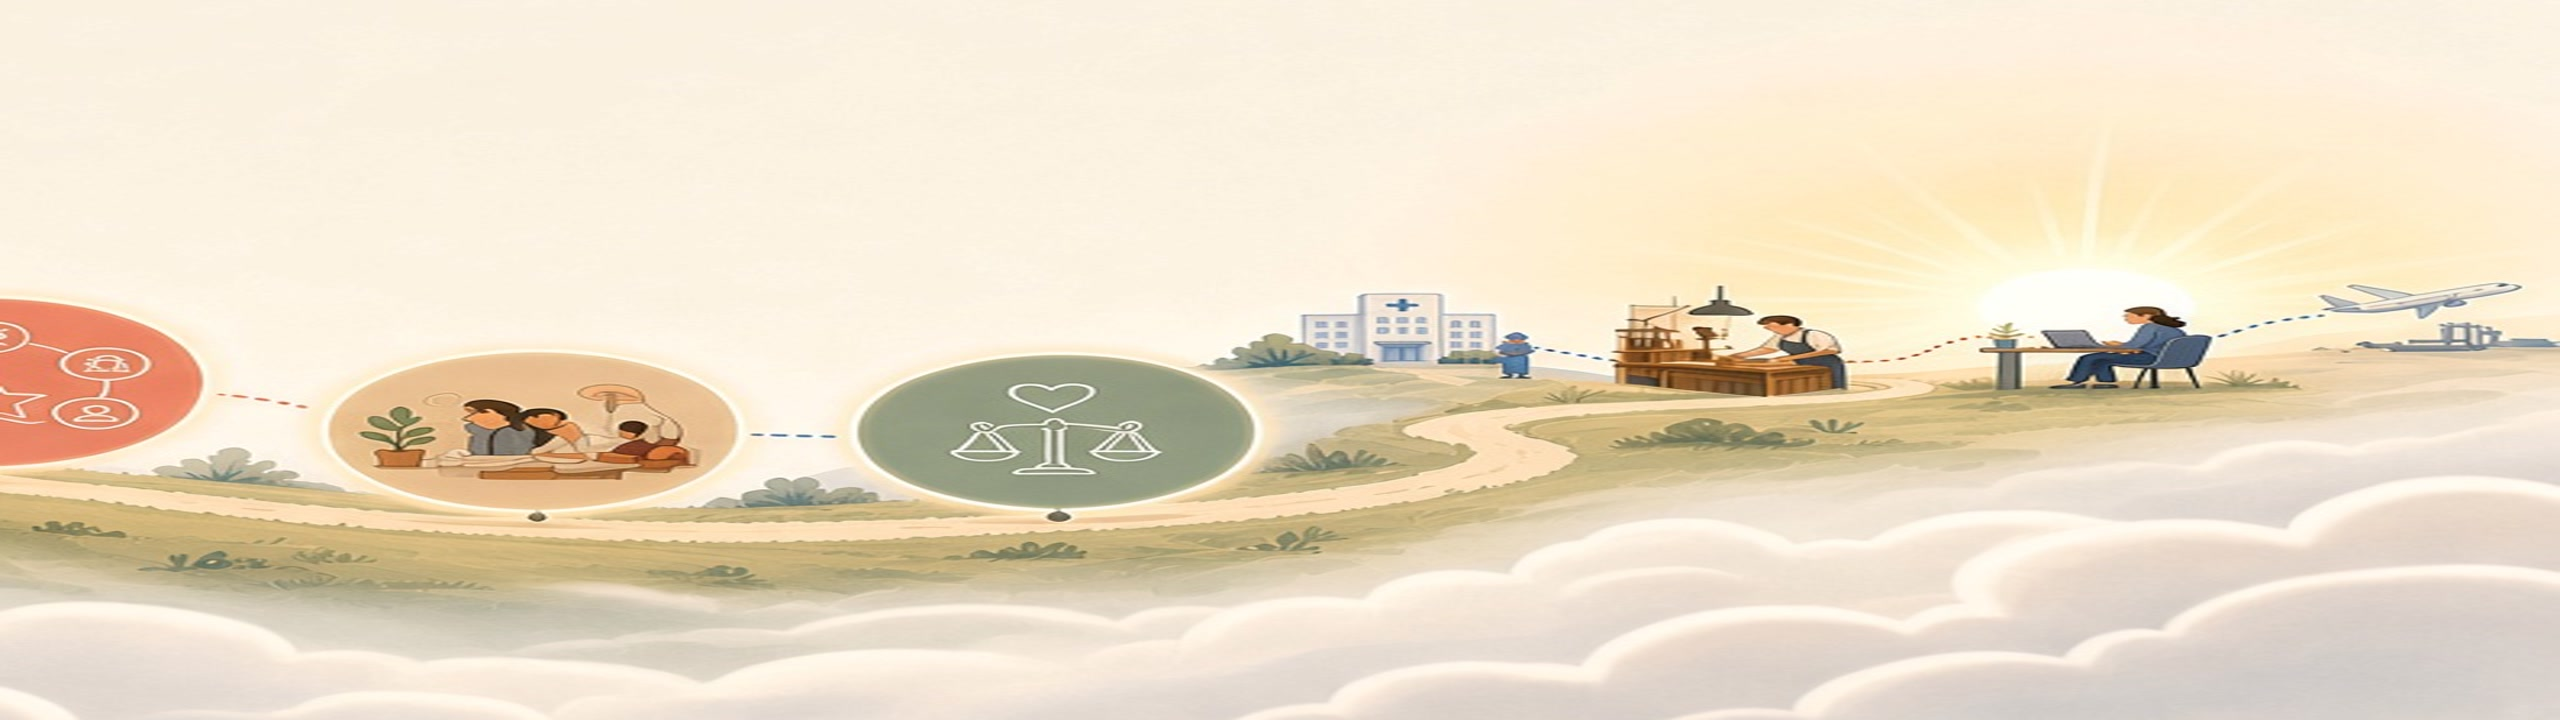
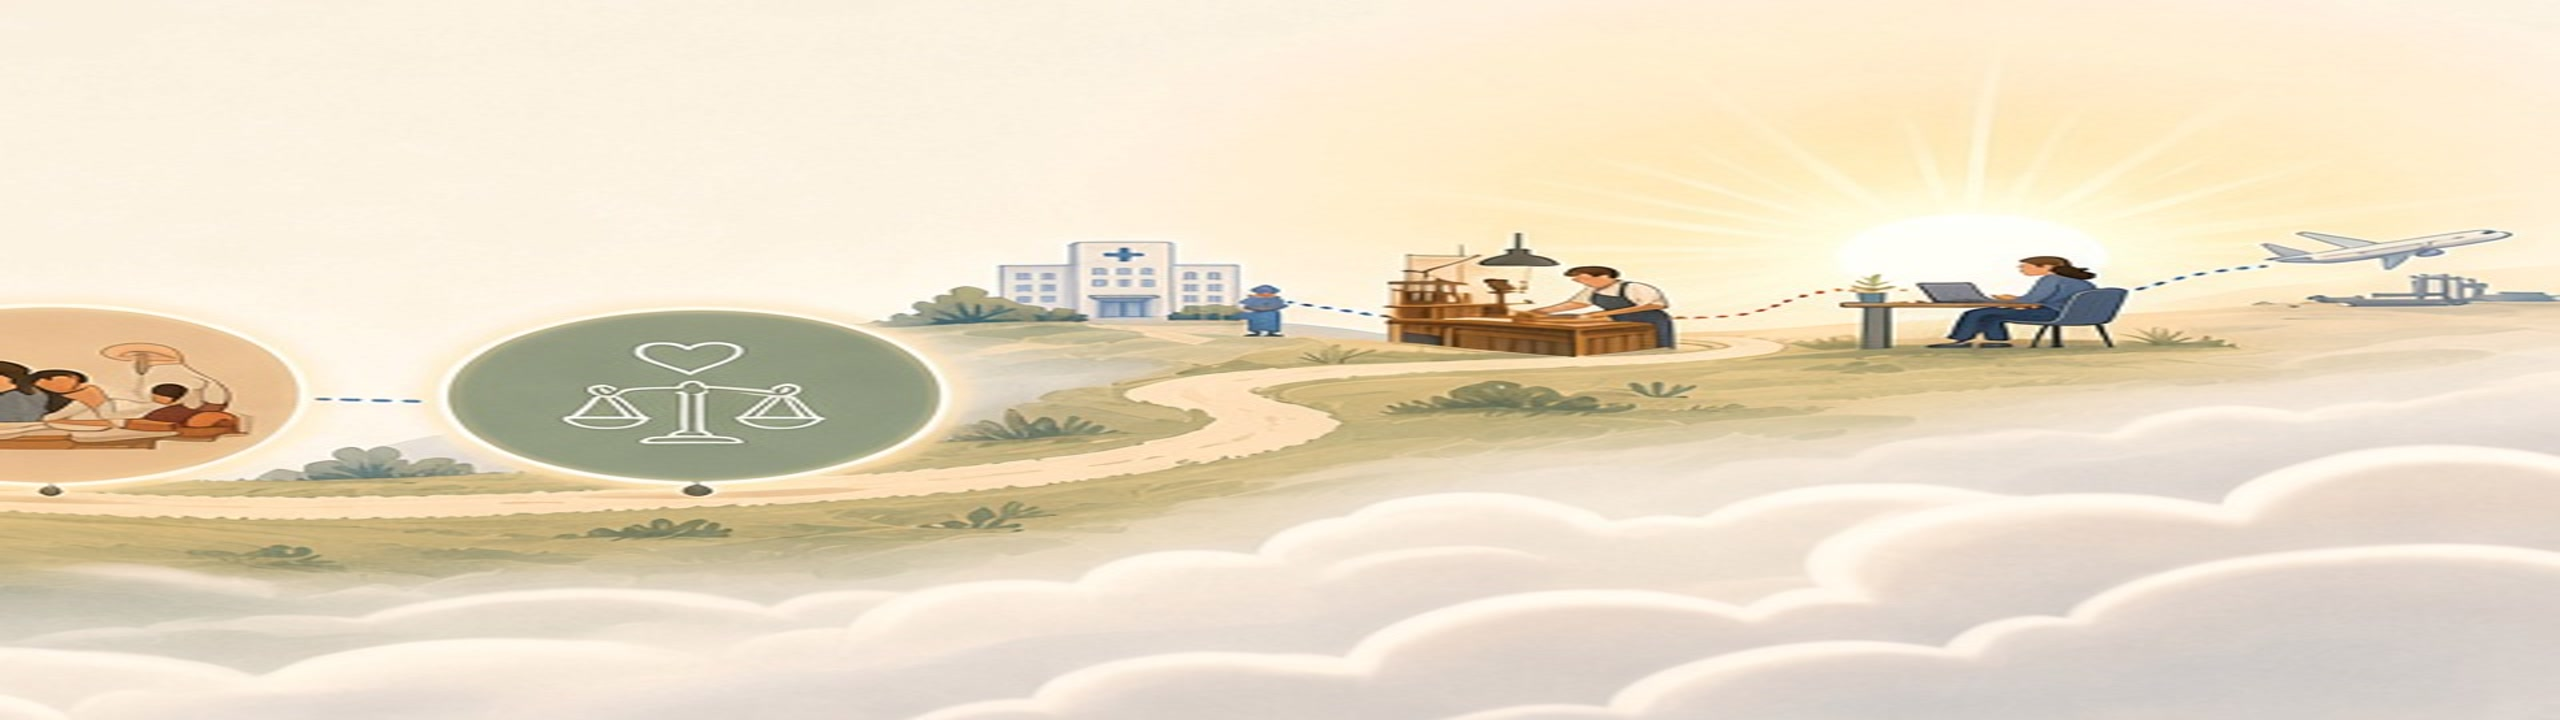
R16: flush hero art under header, kompas scale crop, extended pixel gate.
Remove panel-page top padding on illustrated candidate pages so profession-band art starts at y=68. Align hero art to top-right; tune kompas-hero-wide crop and extend R16 gate (cream strip at x=1300–1400, kompas scale zone).

diff --git a/Jobsy.Web/wwwroot/css/features/candidate-illustrated-app.css b/Jobsy.Web/wwwroot/css/features/candidate-illustrated-app.css
@@ -3,6 +3,12 @@
 .panel-page--cand-ill {
   background: var(--pearl);
   overflow-x: visible;
+  padding-top: 0;
+}
+
+.panel-page.passport-page--illustrated {
+  padding-top: 0;
+  padding-block-start: 0;
 }
 
 .career-page--illustrated.panel-page--cand-ill,
@@ -51,10 +57,19 @@
 }
 
 .cand-hero--profession-band {
+  background-image: none !important;
+}
+
+.cand-hero--profession-band::after {
+  content: "";
+  position: absolute;
+  inset: 0;
+  z-index: 0;
+  pointer-events: none;
+  background-image: var(--cand-hero-art, none);
+  background-repeat: no-repeat;
   background-size: auto 100%;
-  background-position: 100% -1.5rem;
-  background-origin: border-box;
-  background-clip: border-box;
+  background-position: 100% top;
 }
 
 @media (min-width: 640px) {
@@ -63,11 +78,6 @@
     height: clamp(11.25rem, 15.28vw, 13.75rem);
     margin-top: 0;
   }
-}
-
-.cand-hero--profession-band::after {
-  content: none;
-  display: none;
 }
 
 .cand-hero--profession-band::before {
@@ -141,6 +151,13 @@
     margin-inline: auto;
     padding-inline: 1.25rem;
     box-sizing: border-box;
+    background: linear-gradient(
+      90deg,
+      var(--pearl) 0%,
+      var(--pearl) 58%,
+      color-mix(in srgb, var(--pearl) 92%, transparent) 66%,
+      transparent 76%
+    );
   }
 
   .cand-hero--profession-band .cand-hero__copy h1,
@@ -397,6 +414,7 @@
   width: 100%;
   margin-inline: 0;
   padding-inline: 0;
+  padding-block-start: 0;
 }
 
 .panel-page--cand-ill.candidate-hub .cand-settings {

diff --git a/Jobsy.Tests/CandidateIllustratedPagesScreenshotTests.cs b/Jobsy.Tests/CandidateIllustratedPagesScreenshotTests.cs
@@ -37,7 +37,6 @@ public sealed class CandidateIllustratedPagesScreenshotTests : IAsyncLifetime
     private const string ArtifactsDirR14 = "/opt/cursor/artifacts/kandidaat-728-r14";
     private const string ArtifactsDirR15 = "/opt/cursor/artifacts/kandidaat-728-r15";
     private const string ArtifactsDirR16 = "/opt/cursor/artifacts/kandidaat-728-r16";
-    private static readonly Rgb24 PageCreamReference = new(245, 242, 238);
     private static readonly Rgb24 PearlReference = new(247, 244, 240);
     private static readonly Guid SampleVacancyId = Guid.Parse("11111111-1111-1111-1111-111111111111");
     private static readonly Guid PhotoVacancyId = Guid.Parse("22222222-2222-2222-2222-222222222222");
@@ -1221,9 +1220,10 @@ public sealed class CandidateIllustratedPagesScreenshotTests : IAsyncLifetime
         var maxHeroWidthStep = 0;
         var artWidthPx = 0;
         var rightEdgeCutoff = false;
+        var kompasScaleGhostPx = 0;
         if (gateModern)
         {
-            foreach (var y in new[] { 160, 200, 240 })
+            foreach (var y in new[] { 160, 185, 240 })
             {
                 if (y >= img.Height)
                 {
@@ -1243,7 +1243,7 @@ public sealed class CandidateIllustratedPagesScreenshotTests : IAsyncLifetime
                 }
             }
 
-            sb.AppendLine($"  fade band max column step (x 680–1040, y 160/200/240): {maxHeroWidthStep} (max 45)");
+            sb.AppendLine($"  fade band max column step (x 680–1040, y 160/185/240): {maxHeroWidthStep} (max 45)");
 
             const int artScanY = 200;
             const int heroHeightPx = 220;
@@ -1264,6 +1264,17 @@ public sealed class CandidateIllustratedPagesScreenshotTests : IAsyncLifetime
 
             if (label.Contains("kompas", StringComparison.OrdinalIgnoreCase))
             {
+                for (var y = 210; y <= 250; y++)
+                {
+                    for (var x = 980; x <= 1020; x++)
+                    {
+                        if (IsGhostFadePixel(img[x, y]))
+                        {
+                            kompasScaleGhostPx++;
+                        }
+                    }
+                }
+
                 for (var y = 110; y <= 260; y++)
                 {
                     var edge = img[img.Width - 1, y];
@@ -1276,6 +1287,11 @@ public sealed class CandidateIllustratedPagesScreenshotTests : IAsyncLifetime
                 }
             }
 
+            if (label.Contains("kompas", StringComparison.OrdinalIgnoreCase))
+            {
+                sb.AppendLine($"  kompas scale fade ghosts (x 980–1020, y 210–250): {kompasScaleGhostPx} (max 0)");
+            }
+
             sb.AppendLine($"  right-edge figure cutoff{(label.Contains("kompas", StringComparison.OrdinalIgnoreCase) ? " (kompas)" : " (n/a)")}: {rightEdgeCutoff}");
         }
 
@@ -1284,43 +1300,29 @@ public sealed class CandidateIllustratedPagesScreenshotTests : IAsyncLifetime
             && (!useR14Gap || (figureGap >= 60))
             && (!(gateR14 || gateModern) || ghostPixels == 0)
             && (!gateModern || (maxHeroWidthStep <= 45 && artWidthPx >= img.Width * 0.40
-                && (!label.Contains("kompas", StringComparison.OrdinalIgnoreCase) || !rightEdgeCutoff)));
+                && (!label.Contains("kompas", StringComparison.OrdinalIgnoreCase)
+                    || (!rightEdgeCutoff && kompasScaleGhostPx == 0))));
         sb.AppendLine($"  PASS={passed}");
         return sb.ToString();
     }
 
     private static int CountTopCreamStripPx(Image<Rgb24> img, int x, int heroTopY)
     {
-        var strip = 0;
+        var artStartY = heroTopY + 40;
         for (var y = heroTopY; y < Math.Min(heroTopY + 40, img.Height); y++)
         {
-            var px = img[x, y];
-            if (IsTopCreamStripPixel(px))
+            if (IsHeroArtPeach(img[x, y]))
             {
-                strip++;
-            }
-            else
-            {
+                artStartY = y;
                 break;
             }
         }
 
-        return strip;
-    }
-
-    private static bool IsTopCreamStripPixel(Rgb24 px)
-    {
-        if (IsHeroArtPeach(px))
-        {
-            return false;
-        }
-
-        return RgbStep(PageCreamReference, px) <= 14
-            || RgbStep(PearlReference, px) <= 10;
+        return Math.Max(0, artStartY - heroTopY);
     }
 
     private static bool IsHeroArtPeach(Rgb24 px) =>
-        px.R >= 249 && px.G >= 235 && px.B >= 215 && px.R - px.B >= 18;
+        px.R >= 250 && px.G >= 230 && px.B >= 185 && px.R - px.B >= 22;
 
     private static bool IsGhostFadePixel(Rgb24 px)
     {

diff --git a/Jobsy.Web/Hosting/PageAssetCatalog.cs b/Jobsy.Web/Hosting/PageAssetCatalog.cs
@@ -35,7 +35,7 @@ public static class PageAssetCatalog
     [
         "css/features/banenkaart.css?v=20261018-02",
         "css/features/banenkaart-illustrated.css?v=20261018-14",
-        "css/features/candidate-illustrated-app.css?v=20261018-27",
+        "css/features/candidate-illustrated-app.css?v=20261018-38",
         "css/features/kandidaat-banen.css?v=20261017-04",
         "css/features/match-desktop.css?v=20261018-02",
         "css/features/applications.css?v=20261004-10",

diff --git a/Jobsy.Web/Media/CandidateIllustratedImages.cs b/Jobsy.Web/Media/CandidateIllustratedImages.cs
@@ -3,7 +3,7 @@ namespace Jobsy.Web.Media;
 /// <summary>Versioned URLs for candidate-facing illustrated pages (login, start, kompas, banenkaart).</summary>
 public static class CandidateIllustratedImages
 {
-    public const string Version = "20261018-24";
+    public const string Version = "20261018-38";
     private const string Base = $"/images/candidate-illustrated";
 
     public static string Url(string file) => $"{Base}/{file}?v={Version}";
